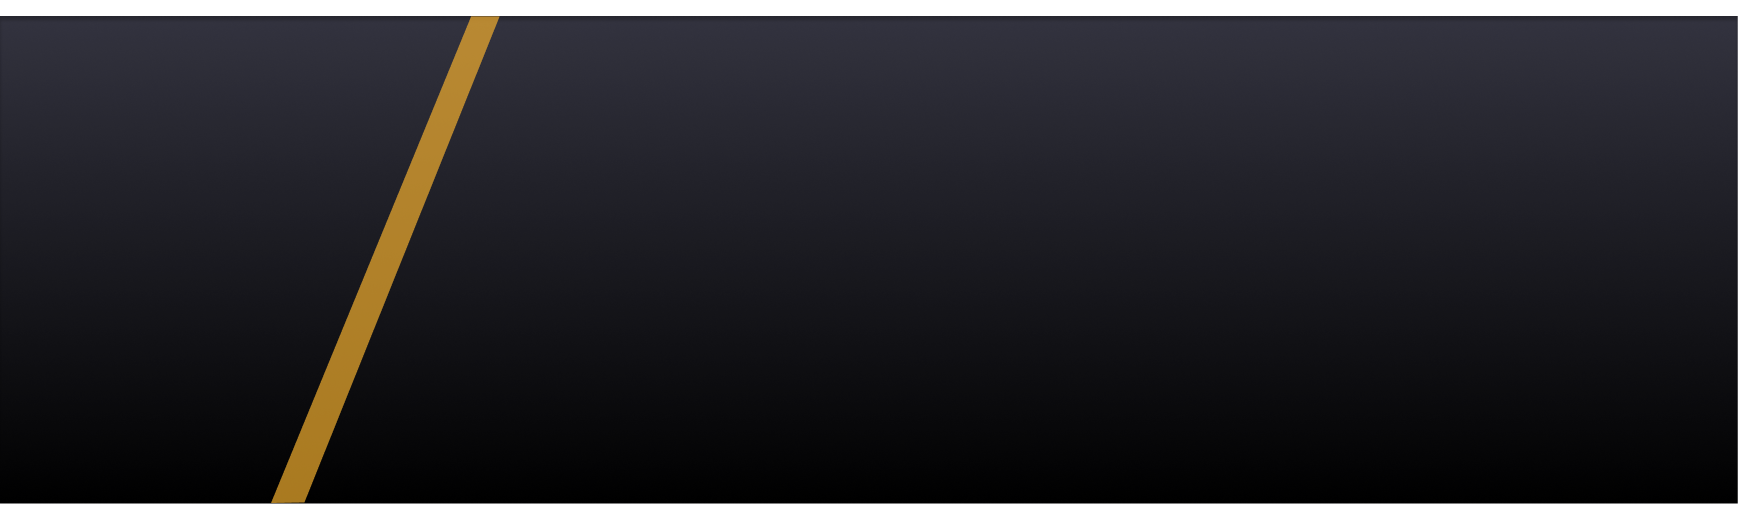
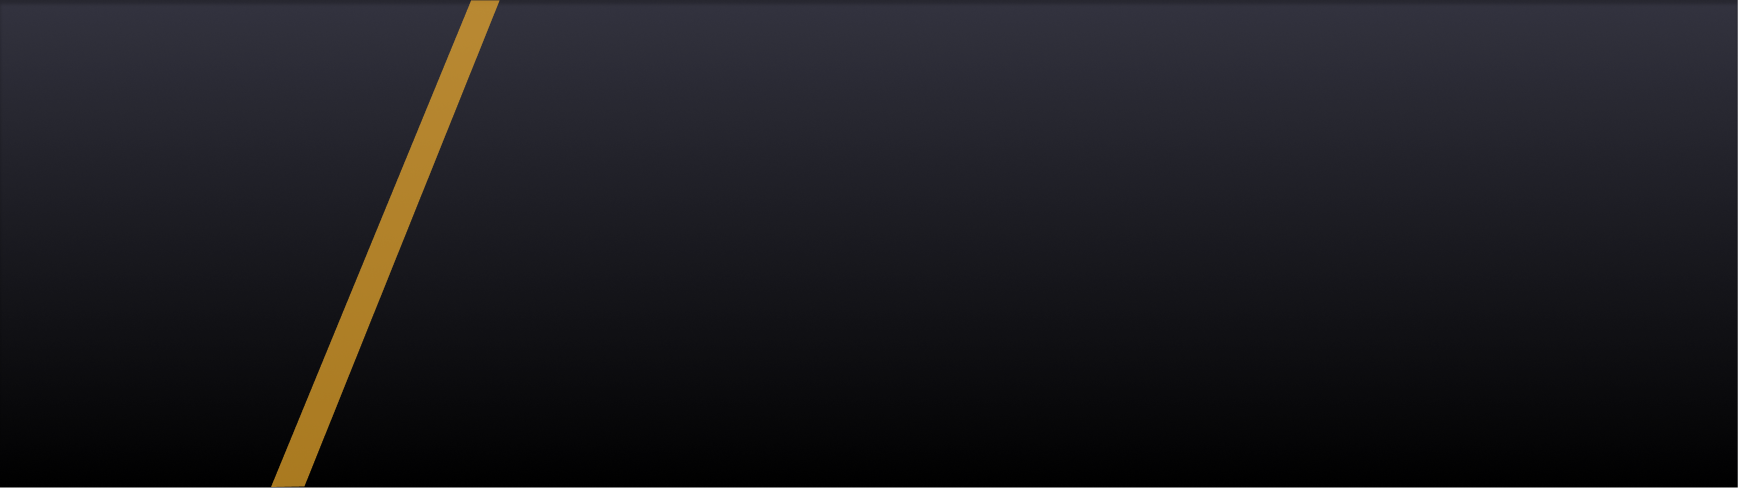
change background to singin and singup, fix footer img

Changed region(s): [[0.0, 0.8607, 1.0, 1.0], [0.0, 0.0, 1.0, 0.2152], [0.1864, 0.6455, 0.2175, 0.7377]]

diff --git a/signin.html b/signin.html
@@ -17,7 +17,7 @@
 		<title>Biddify | Sing in</title>
 	</head>
 
-	<body class="dark:bg-gray-900">
+	<body class="dark:bg-[#050506]">
 		<script type="module" src="/main.js"></script>
 		<header>
 			<nav
@@ -48,13 +48,13 @@
 		<main id="main">
 			<section
 				id="sign-in"
-				class="bg-gray-50 dark:bg-gray-900 pt-20 sm:pt-0 pb-5 sm:pb-0"
+				class="pt-20 sm:pt-0 pb-5 sm:pb-0"
 			>
 				<div
-					class="flex flex-col items-center justify-center px-6 py-8 mx-auto md:h-screen lg:py-0"
+					class="flex flex-col items-center justify-center px-6 pt-8 mx-auto md:h-screen lg:py-0"
 				>
 					<div
-						class="w-full bg-white rounded-lg shadow dark:border md:mt-0 sm:max-w-md xl:p-0 dark:bg-gray-800 dark:border-gray-700"
+						class="w-full rounded-lg shadow dark:border md:mt-0 sm:max-w-md xl:p-0 dark:bg-gray-800 dark:border-gray-700"
 					>
 						<div class="p-6 space-y-4 md:space-y-6 sm:p-8">
 							<h1

diff --git a/signup.html b/signup.html
@@ -11,7 +11,7 @@
 		<meta name="viewport" content="width=device-width, initial-scale=1.0" />
 		<title>Biddify | Sing up </title>
 	</head>
-	<body class="dark:bg-gray-900">
+	<body class="dark:bg-[#050506]">
 		<script type="module" src="/main.js"></script>
 		<header>
 			<nav
@@ -42,7 +42,7 @@
 		<main>
 			<section
 				id="sign-in"
-				class="bg-gray-50 dark:bg-gray-900 pt-20 sm:pt-10 pb-5 sm:pb-0"
+				class="pt-20 sm:pt-10 pb-5 sm:pb-0"
 			>
 				<div
 					class="flex flex-col items-center justify-center px-6 py-8 mx-auto md:h-screen lg:py-0"
